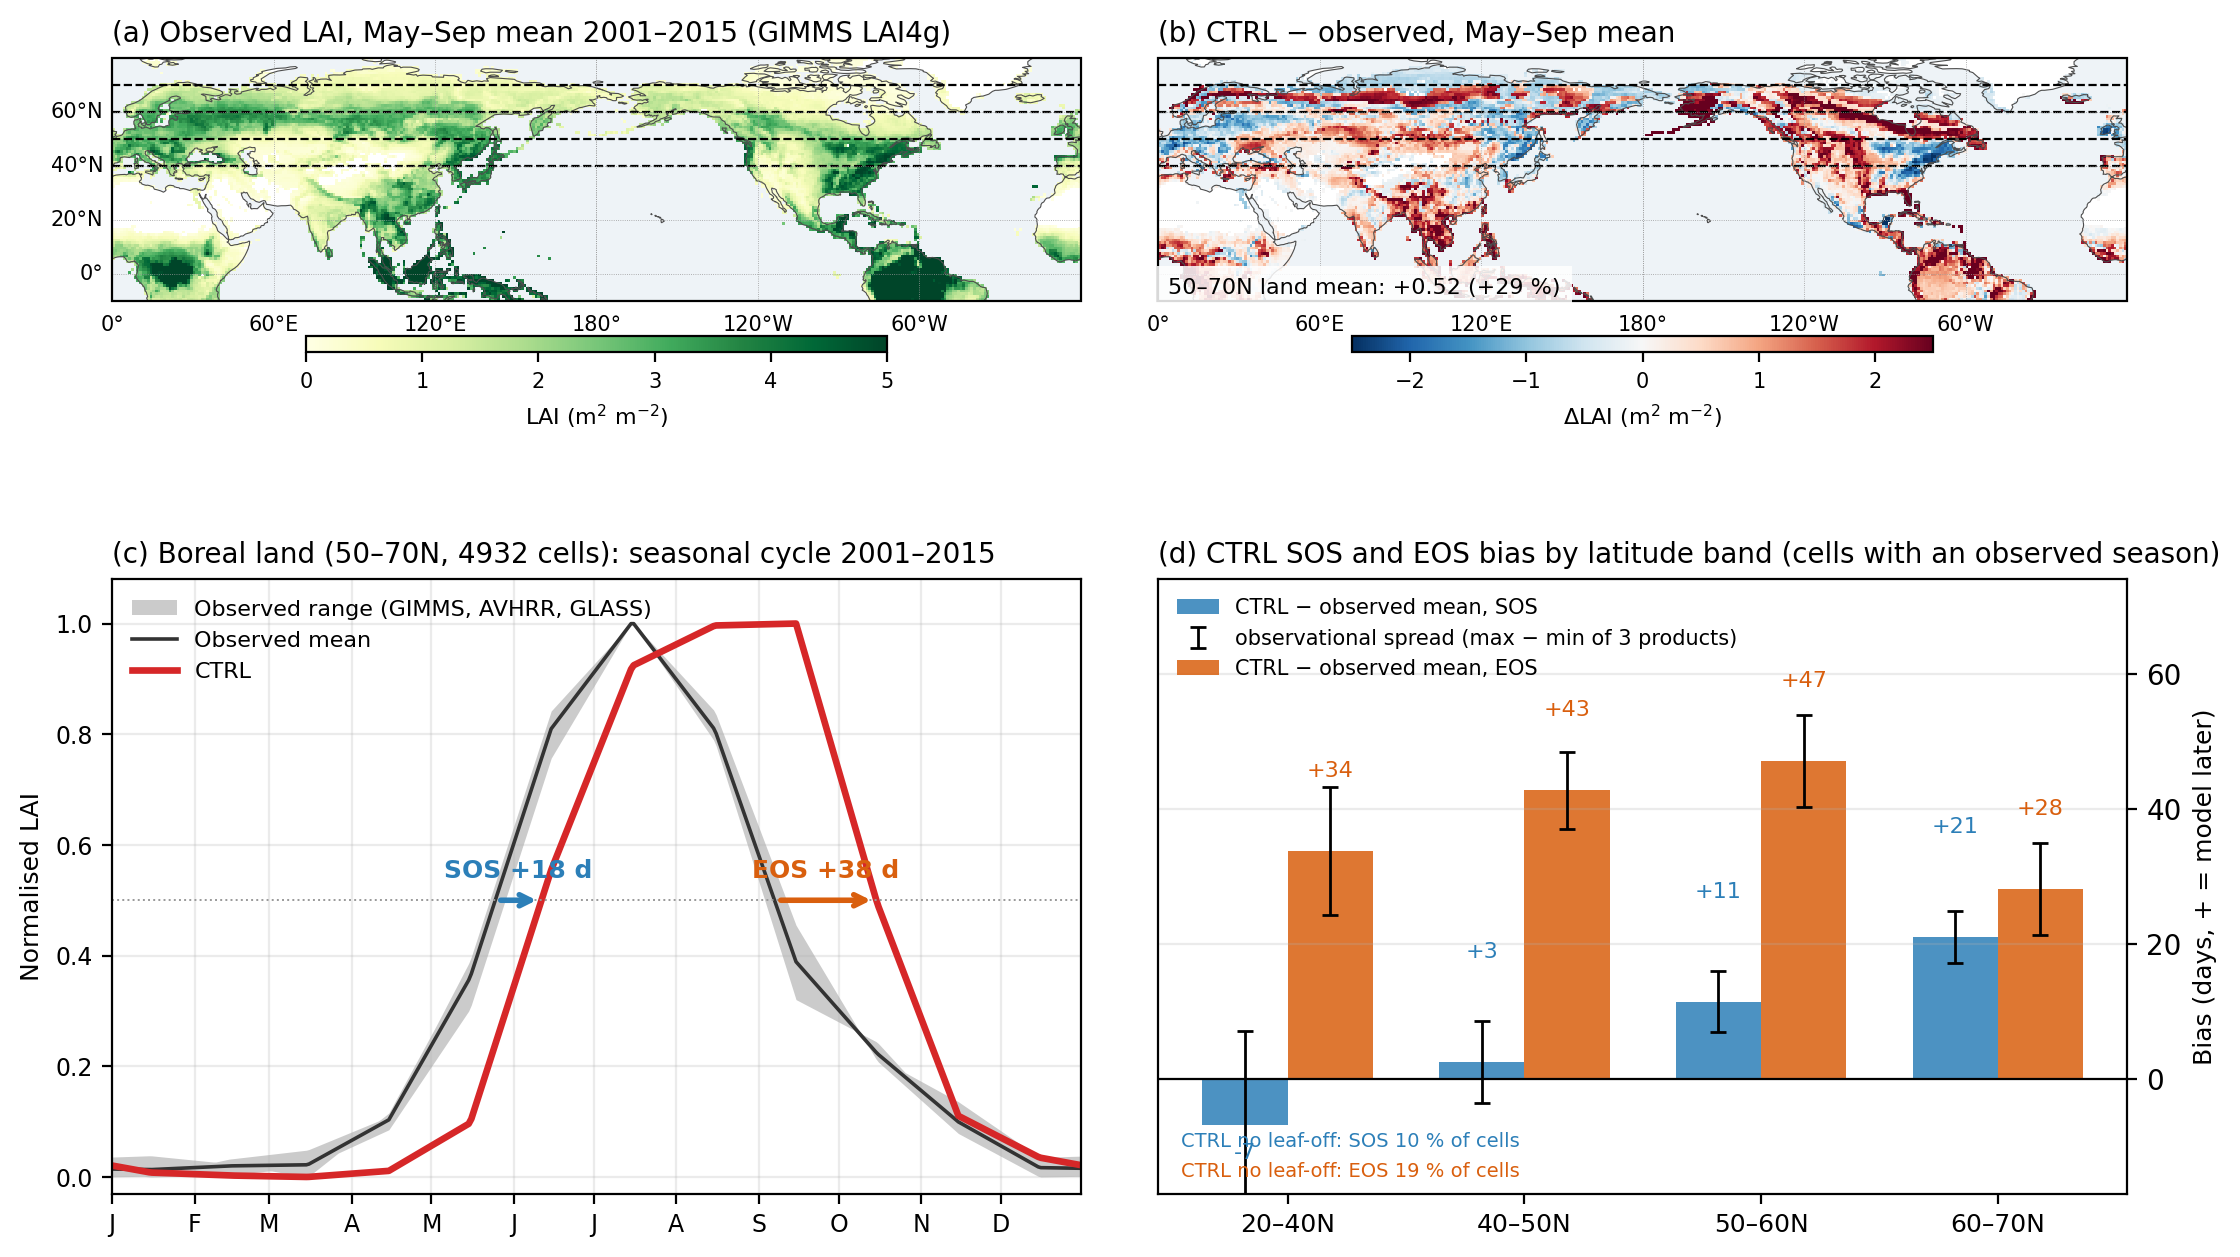
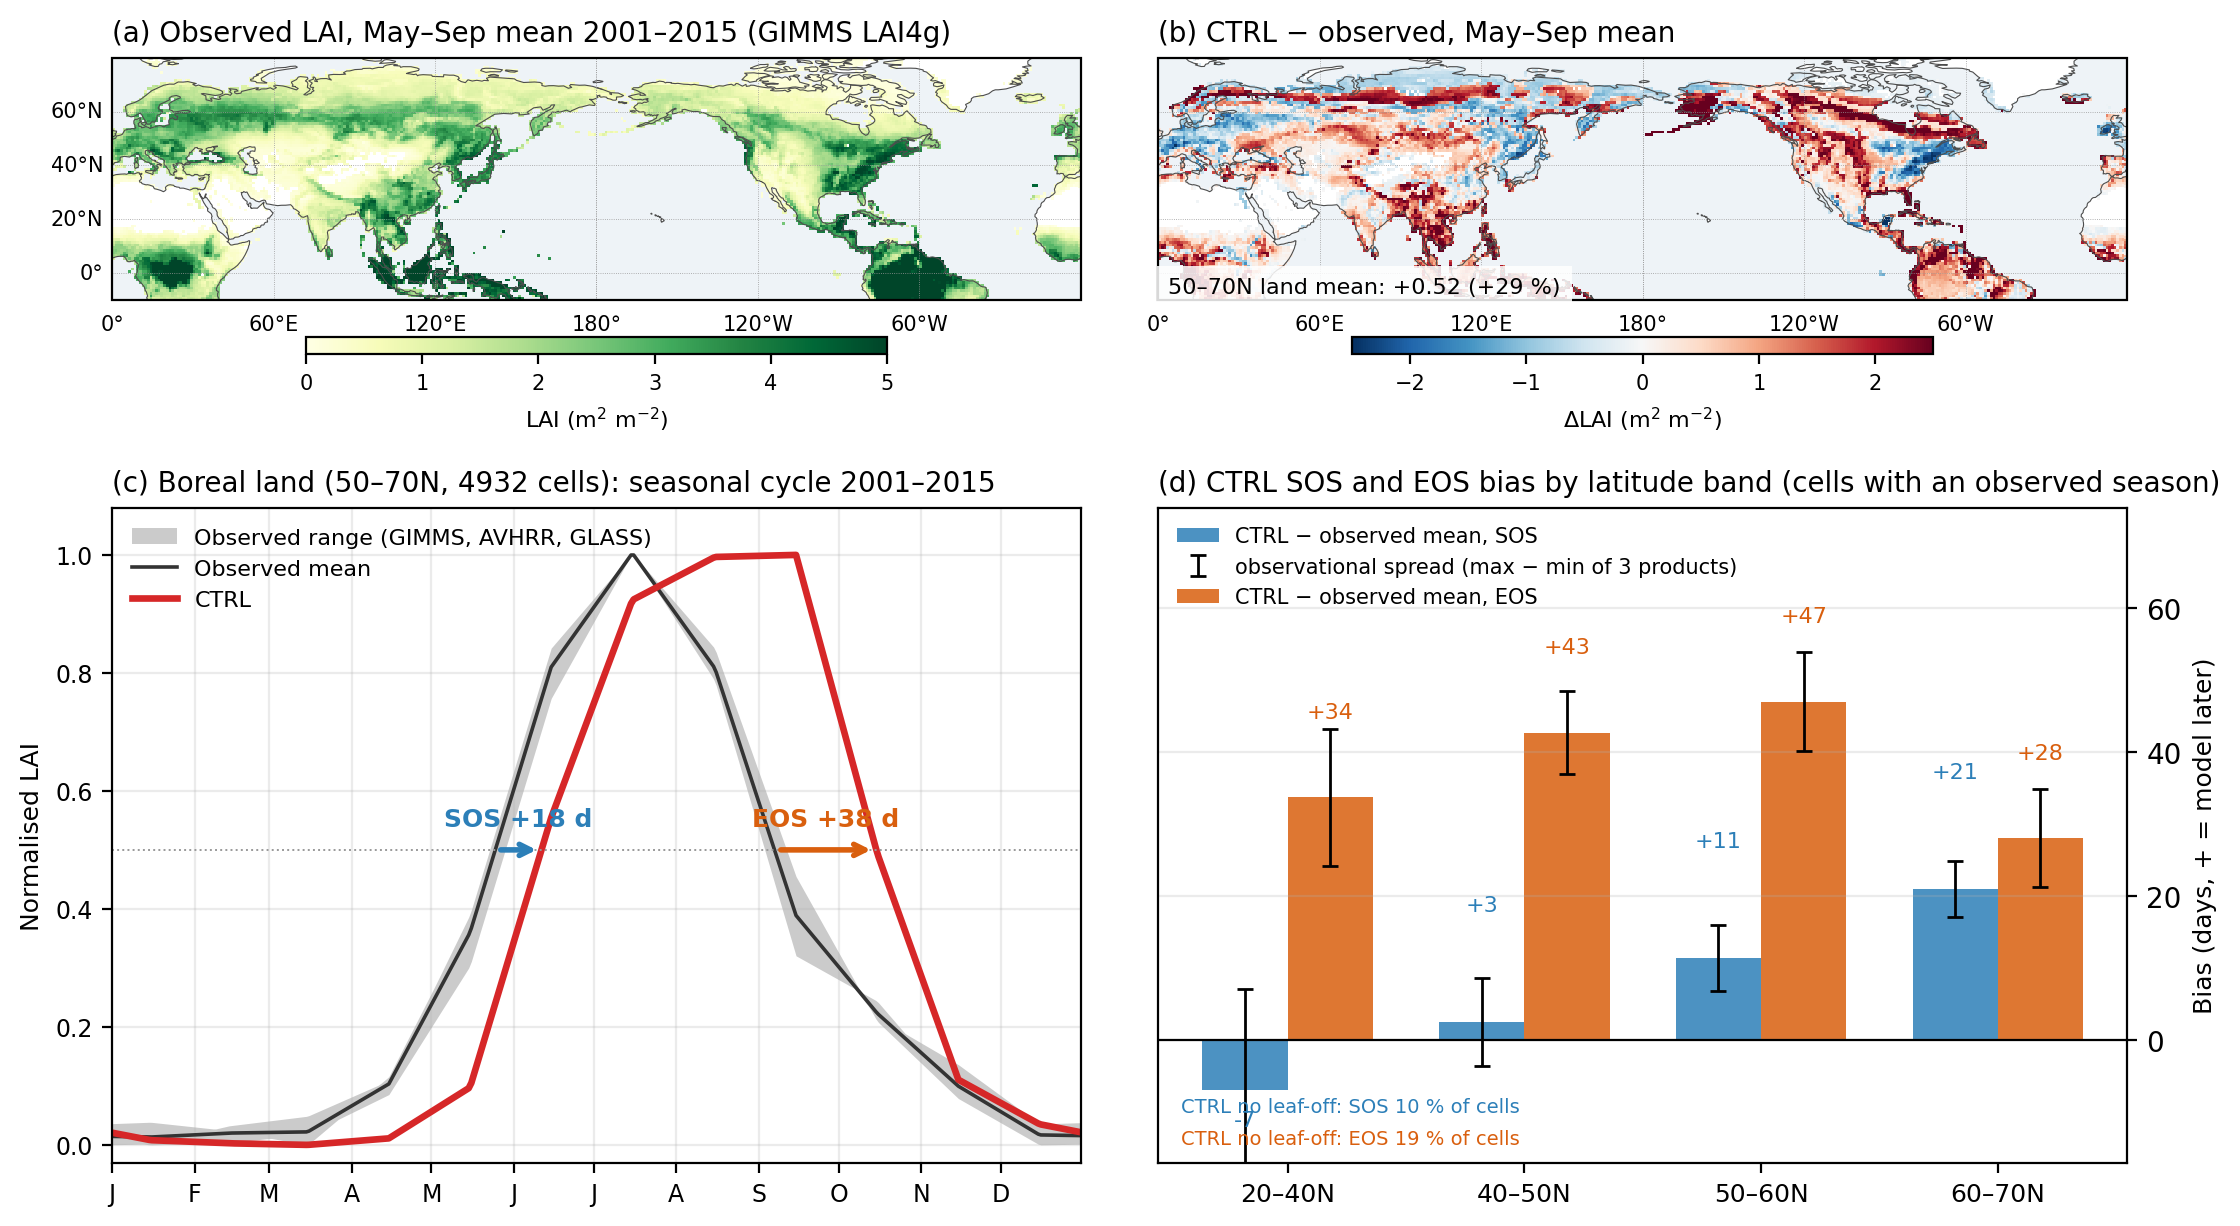
Add Fig. 3 rule-timing maps; Fig. 1 without band lines; daily-LAI decision for the 15-yr run

diff --git a/paper/2026_LM4p_phenology/scripts/f3_rule_timing_maps.py b/paper/2026_LM4p_phenology/scripts/f3_rule_timing_maps.py
@@ -1,0 +1,152 @@
+#!/usr/bin/env python3
+"""Fig. 3: why CTRL is late - the phenology rules reconstructed cell by cell from daily canopy temperature, 2010.
+
+Rules (vegn_dynamics.F90 vegn_phenology_ppa, larix/c3grass parameters: gdd_crit 180, tc_crit 5 C):
+  leaf-on  : GDD > 180  AND  tc_pheno >= 5 C  AND  soil not dry/frozen,  tc_pheno = 20-day EMA of canopy T
+  leaf-off : tc_pheno < 5 C  (CTRL);  patch adds: days shortening AND day length < 13 h AND tc_pheno < 20 C
+Daily input: dayl_d 2010 land_daily (vegn_temp_max/min, soil_liq/ice, lai); spring rules in dayl_d = CTRL.
+(a) spring delay produced by the 20-day smoothing: doy(tc_pheno >= 5 C) - doy(5-day mean T >= 5 C)
+(b) spring: the gate that opens last (binding): GDD / smoothed temperature / soil thaw (top 10 cm liquid fraction >= 0.3)
+(c) autumn: doy(day length < 13 h, shortening) - doy(tc_pheno < 5 C): how much earlier the photoperiod rule fires
+(d) autumn: doy(tc_pheno < 5 C) - observed EOS (GIMMS 2010, 50 % amplitude): lateness of the CTRL cold rule
+C96 land points binned to 1 deg (mean); cells 20-80N with LAI seasonal range > 0.3 in dayl_d.
+output: ../figures/f3_rule_timing_maps.png, ../data/f3_rule_timing_bands.txt
+"""
+import glob
+import numpy as np
+from netCDF4 import Dataset
+import matplotlib
+matplotlib.use("Agg")
+import matplotlib.pyplot as plt
+from matplotlib.colors import ListedColormap, BoundaryNorm
+import cartopy.crs as ccrs
+import cartopy.feature as cfeature
+
+RUN = "/Volumes/data02/LM4P/cases/phentest_2010/dayl_d/"
+OBS = "../../../poster/2026_LM4p_LAI/data/gimms_lai_mon_1982_2020.nc"
+V = ("lai", "vegn_temp_max", "vegn_temp_min", "soil_liq", "soil_ice")
+d = {k: [] for k in V}; lat = []; lon = []
+for f in sorted(glob.glob(RUN + "*.land_daily.tile*.nc")):
+    with Dataset(f) as A:
+        A.set_auto_mask(False)
+        la = A["geolat_t"][:].ravel(); lo = A["geolon_t"][:].ravel()
+        m = (la >= 20) & (la <= 80)
+        lat.append(la[m]); lon.append(lo[m])
+        for k in V:
+            x = A[k][:].astype("f8")
+            x = x.reshape(x.shape[0], -1, m.size) if x.ndim == 3 else x.reshape(x.shape[0], m.size)
+            d[k].append(x[..., m])
+lat = np.concatenate(lat); lon = np.concatenate(lon); lon = np.where(lon > 180, lon - 360, lon)
+d = {k: np.concatenate(v, axis=-1) for k, v in d.items()}
+nt = d["lai"].shape[0]
+ok = np.all((d["lai"] >= 0) & (d["lai"] < 1e10), 0) & np.all((d["vegn_temp_max"] > 100) & (d["vegn_temp_max"] < 400), 0) \
+     & np.all(np.abs(d["soil_liq"]) < 1e10, (0, 1)) & ((d["lai"].max(0) - d["lai"].min(0)) > 0.3)
+doy = np.arange(1, nt + 1)[:, None]
+
+
+def first(cond, start=60):
+    c = cond & (doy > start)
+    return np.where(c.any(0), np.argmax(c, 0) + 1.0, np.nan)
+
+
+Tx, Tn = d["vegn_temp_max"] - 273.15, d["vegn_temp_min"] - 273.15
+tm = (Tx + Tn) / 2
+gdd = np.cumsum((np.maximum(Tn, 0) + np.maximum(Tx, 0)) / 2, 0)
+tc = np.empty_like(tm); tc[0] = tm[:31].mean(0)
+for t in range(1, nt):
+    tc[t] = 0.95 * tc[t - 1] + 0.05 * tm[t]
+t5 = np.apply_along_axis(lambda a: np.convolve(a, np.ones(5) / 5, "same"), 0, tm)
+dz = np.array([0.02, 0.04, 0.04]); z = np.array([0.01, 0.04, 0.08]); wz = dz * np.exp(-z / 0.3); wz /= wz.sum()
+liq = d["soil_liq"] / 1000.0; tot = (d["soil_liq"] + d["soil_ice"]) / 1000.0
+theta = (np.minimum(liq / np.maximum(tot.max(0), 1e-3), 1.0) * wz[None, :, None]).sum(1)
+th = np.empty_like(theta); th[0] = theta[0]
+for t in range(1, nt):
+    th[t] = th[t - 1] + (theta[t] - th[t - 1]) / 31.0
+
+g_gdd = first(gdd > 180, 0); g_tc = first(tc >= 5); g_th = first(th >= 0.3); g_raw = first(t5 >= 5)
+binding = np.argmax(np.vstack([g_gdd, g_tc, g_th]), 0).astype(float)   # 0 GDD, 1 tc, 2 thaw
+rl = np.radians(lat)[None, :]
+decl = np.radians(23.44) * np.sin(2 * np.pi * (284 + doy) / 365)
+dayl = 24 / np.pi * np.arccos(np.clip(-np.tan(rl) * np.tan(decl), -1, 1))
+shorten = (rl * np.cos(2 * np.pi * (284 + doy) / 365)) < 0
+after = doy > 172
+cold = np.where((after & (tc < 5)).any(0), np.argmax(after & (tc < 5), 0) + 1.0, np.nan)
+dl13 = np.where((after & shorten & (dayl < 13) & (tc < 20)).any(0), np.argmax(after & shorten & (dayl < 13) & (tc < 20), 0) + 1.0, np.nan)
+
+# observed EOS 2010 per 1-deg cell (50 % amplitude, monthly interpolated), mapped to the C96 points
+MID = np.array([15.5, 45, 74.5, 105, 135.5, 166, 196.5, 227.5, 258, 288.5, 319, 349.5]); D = np.arange(1, 366.0)
+with Dataset(OBS) as A:
+    gv = [v for v in A.variables if A.variables[v].ndim == 3][0]
+    G = np.ma.filled(A[gv][(2010 - 1982) * 12:(2010 - 1982) * 12 + 12].astype("f8"), np.nan)
+G[np.abs(G) > 100] = np.nan
+eos_obs_1deg = np.full((180, 360), np.nan)
+for i, j in zip(*np.where(np.isfinite(G).all(0) & ((G.max(0) - G.min(0)) >= 0.5))):
+    mm = G[:, i, j]; c = np.interp(D, np.r_[MID[-1] - 365, MID, MID[0] + 365], np.r_[mm[-1], mm, mm[0]])
+    thr = c.min() + 0.5 * np.ptp(c); ip = int(c.argmax()); dn = [k for k in range(ip, 364) if c[k] >= thr > c[k + 1]]
+    if dn:
+        k = dn[0]; eos_obs_1deg[i, j] = D[k] + (c[k] - thr) / (c[k] - c[k + 1])
+ii = np.clip(((lat + 90) // 1).astype(int), 0, 179); jj = np.clip(((lon + 180) // 1).astype(int), 0, 359)
+eos_obs = eos_obs_1deg[ii, jj]
+
+fields = {"a": g_tc - g_raw, "b": binding, "c": dl13 - cold, "d": cold - eos_obs}
+# bin C96 points to 1 deg (mean; mode for the category field)
+def to1deg(v, mask, mode=False):
+    out = np.full((180, 360), np.nan)
+    if mode:
+        cnt = np.zeros((180, 360, 3))
+        for k in range(3):
+            np.add.at(cnt[:, :, k], (ii[mask & (v == k)], jj[mask & (v == k)]), 1)
+        has = cnt.sum(2) > 0; out[has] = cnt.argmax(2)[has]
+    else:
+        s = np.zeros((180, 360)); n = np.zeros((180, 360)); mk = mask & np.isfinite(v)
+        np.add.at(s, (ii[mk], jj[mk]), v[mk]); np.add.at(n, (ii[mk], jj[mk]), 1); out[n > 0] = s[n > 0] / n[n > 0]
+    return out
+
+
+maps = {k: to1deg(v, ok, mode=(k == "b")) for k, v in fields.items()}
+lat1 = -89.5 + np.arange(180); lon1 = -179.5 + np.arange(360)
+# fill 1-deg boxes that received no C96 point from the nearest point (within 1.5 deg), only where GIMMS has a season
+from scipy.spatial import cKDTree
+tree = cKDTree(np.c_[lat[ok], lon[ok]])
+gy, gx = np.meshgrid(lat1, lon1, indexing="ij")
+want = np.isfinite(eos_obs_1deg) & (gy >= 20)
+for k in maps:
+    hole = want & ~np.isfinite(maps[k])
+    dist, idx = tree.query(np.c_[gy[hole], gx[hole]])
+    vals = fields[k][ok][idx]
+    vals[dist > 1.5] = np.nan
+    maps[k][hole] = vals
+    maps[k][~want] = np.nan          # show only cells with an observed season (as Fig. 1d)
+
+out = ["Rule timing from dayl_d 2010 daily canopy temperature, C96 cells 20-80N with LAI range > 0.3; medians per latitude band",
+       "%-7s %6s | %8s %8s %8s | %6s %6s %6s | %8s %8s %8s" % ("band", "cells", "tc-raw5", "DL13-cold", "cold-obsEOS", "GDD%", "tc%", "thaw%", "raw5", "tc5", "cold")]
+for a, b in ((20, 40), (40, 50), (50, 60), (60, 70), (70, 80)):
+    m = ok & (lat >= a) & (lat < b)
+    if m.sum() < 20:
+        continue
+    out.append("%2d-%2dN %6d | %8.0f %8.0f %8.0f | %6.0f %6.0f %6.0f | %8.0f %8.0f %8.0f" % (
+        a, b, m.sum(), np.nanmedian(fields["a"][m]), np.nanmedian(fields["c"][m]), np.nanmedian(fields["d"][m]),
+        *[100 * np.mean(binding[m] == k) for k in range(3)], np.nanmedian(g_raw[m]), np.nanmedian(g_tc[m]), np.nanmedian(cold[m])))
+open("../data/f3_rule_timing_bands.txt", "w").write("\n".join(out) + "\n"); print("\n".join(out))
+
+proj = ccrs.PlateCarree(central_longitude=180)
+fig, axs = plt.subplots(2, 2, figsize=(13, 5.6), subplot_kw={"projection": proj}, gridspec_kw={"hspace": 0.02, "wspace": 0.06})
+spec = [("a", "(a) Spring: leaf-on delay from the 20-day temperature smoothing (days)", "YlOrRd", 0, 50, "days"),
+        ("b", "(b) Spring: the last gate to open (binding condition)", None, None, None, None),
+        ("c", "(c) Autumn: photoperiod rule (13 h) minus cold rule (5 °C) leaf-off date (days)", "RdBu", -90, 90, "days (negative = photoperiod earlier)"),
+        ("d", "(d) Autumn: CTRL cold-rule leaf-off minus observed EOS (days)", "RdBu_r", -60, 60, "days (positive = CTRL later)")]
+for ax, (k, title, cmap, lo, hi, lab) in zip(axs.ravel(), spec):
+    ax.set_extent([-180, 180, 20, 80], crs=proj)
+    ax.coastlines(lw=0.4, color="0.3"); ax.add_feature(cfeature.OCEAN, facecolor="#eef3f7", zorder=0)
+    if k == "b":
+        cm = ListedColormap(["#1b9e77", "#d95f02", "#7570b3"]); nm = BoundaryNorm([-0.5, 0.5, 1.5, 2.5], 3)
+        im = ax.pcolormesh(lon1, lat1, np.ma.masked_invalid(maps[k]), cmap=cm, norm=nm, transform=ccrs.PlateCarree(), shading="auto")
+        cb = fig.colorbar(im, ax=ax, orientation="horizontal", pad=0.08, shrink=0.55, aspect=30, ticks=[0, 1, 2])
+        cb.ax.set_xticklabels(["GDD > 180", "smoothed T ≥ 5 °C", "soil thaw"], fontsize=8)
+    else:
+        im = ax.pcolormesh(lon1, lat1, np.ma.masked_invalid(maps[k]), cmap=cmap, vmin=lo, vmax=hi, transform=ccrs.PlateCarree(), shading="auto")
+        cb = fig.colorbar(im, ax=ax, orientation="horizontal", pad=0.08, shrink=0.55, aspect=30); cb.set_label(lab, fontsize=8); cb.ax.tick_params(labelsize=7.5)
+    gl = ax.gridlines(draw_labels=True, lw=0.3, color="0.6", ls=":", xlocs=range(-180, 181, 60), ylocs=range(20, 81, 20))
+    gl.top_labels = False; gl.right_labels = False; gl.xlabel_style = {"size": 7.5}; gl.ylabel_style = {"size": 7.5}
+    ax.set_title(title, loc="left", fontsize=9)
+fig.savefig("../figures/f3_rule_timing_maps.png", dpi=200, bbox_inches="tight")

diff --git a/paper/2026_LM4p_phenology/scripts/f1_ctrl_bias_regions.py b/paper/2026_LM4p_phenology/scripts/f1_ctrl_bias_regions.py
@@ -136,7 +136,7 @@ for nm, a, b in BANDS + [("boreal", 50, 70)]:
 
 # ---- figure
 fig = plt.figure(figsize=(13, 8.8))
-gs = fig.add_gridspec(2, 2, height_ratios=(1, 1.05), hspace=0.26, wspace=0.08)
+gs = fig.add_gridspec(2, 2, height_ratios=(1, 1.05), hspace=0.12, wspace=0.08)
 proj = ccrs.PlateCarree(central_longitude=180)
 axa = fig.add_subplot(gs[0, 0], projection=proj); axb = fig.add_subplot(gs[0, 1], projection=proj)
 axc = fig.add_subplot(gs[1, 0]); axd = fig.add_subplot(gs[1, 1])
@@ -149,8 +149,6 @@ for ax, z, cmap, lo, hi, lab, title in ((axa, g, "YlGn", 0, 5, "LAI (m$^2$ m$^{-
     ax.set_extent([-180, 180, -10, 80], crs=proj)   # full width, Pacific-centred
     im = ax.pcolormesh(lon, lat, np.ma.masked_invalid(z), cmap=cmap, vmin=lo, vmax=hi, transform=ccrs.PlateCarree(), shading="auto")
     ax.coastlines(lw=0.4, color="0.3"); ax.add_feature(cfeature.OCEAN, facecolor="#eef3f7", zorder=0)
-    for yb in (40, 50, 60, 70):   # the bands of (d)
-        ax.plot([-180, 180], [yb, yb], color="k", lw=0.8, ls="--", transform=proj)
     gl = ax.gridlines(draw_labels=True, lw=0.3, color="0.6", ls=":", xlocs=range(-180, 181, 60), ylocs=range(0, 81, 20))
     gl.top_labels = False; gl.right_labels = False; gl.xlabel_style = {"size": 7.5}; gl.ylabel_style = {"size": 7.5}
     if ax is axb:

diff --git a/notes/findings.md b/notes/findings.md
@@ -77,3 +77,4 @@
 - **겨울 휴면 잠금(latch) 후보 오프라인 비교 (2026-10-19, `lm4/scripts/dl_dormancy_latch_offline.py` → `lm4/data/dl_dormancy_latch_offline_2010.txt`; dayl_d 2010 일별 기온, c3grass 규칙 상태기계, 가뭄 제외, 2회 반복 후 2회차)**: 겨울 재개엽 % (동지 후 60일 내 잎 켜기) / 동지 후 첫 잎 켜기 중앙 일수, 관측 GIMMS 2010 SOS(동지 후 일수). CUR(현 패치): 20–40N 59 % / 33일, 20–40S 87 % / 8일, 40–60S 38 % / 65일, 40–50N 7 %, 50–70N 0 %. **EQ12(일장 규칙·추위로 잎이 꺼지면 낮이 길어지고 일장 ≥12 h(춘분 이후)까지 잠금)**: 재개엽 20–40N 7 % · 20–40S 0 % · 40–60S 0 % · 40–50N 1 %, 첫 켜기 동지 후 91–92일(+8일 ≈ LAI 50 %) < 관측 SOS 127–147일 → 봄이 관측보다 늦어지지 않음. **50–70N은 모든 후보에서 불변(북방 결과 영향 없음).** EQ11·SOL30 불충분(재개엽 36–86 %), SOL60은 EQ12와 비슷하나 생리 근거 약함. ⇒ EQ12 채택 후보(봄 개엽에 낮 길이 증가 요구 = 온대 수종 광주기 요구와 같은 논리, 근거 문헌 확인 필요). 남은 문제: 아열대 봄은 EQ12로도 관측보다 30–45일 이름(CTRL부터의 아열대 조기 개엽).
 - **논문 그림 1 생성 (2026-10-19, `paper/2026_LM4p_phenology/scripts/f1_ctrl_bias_regions.py` → `figures/f1_ctrl_bias_regions.png`, `data/f1_sos_eos_bias.txt`)**: 2001–2015, 관측 3종(GIMMS·AVHRR·GLASS) 공통 셀, p24 방법. CTRL − 관측 3종 평균(일) / 관측 범위: SOS NEU +21.3/13.4 · RFE +21.0/4.2 · NWN +14.1/3.2 · ESB +8.6/4.4 · WSB +8.6/6.5 · NEN +27.7/3.7 · RAR +19.8/6.0; EOS NEU +40.3/27.1 · RFE +32.0/8.4 · NWN +34.1/5.4 · ESB +37.9/6.1 · WSB +49.1/8.6 · NEN +21.2/12.5 · RAR +27.4/3.4. 7지역 14개 중 관측 범위 안에 드는 편차 없음(NEU EOS는 범위 27일로 가장 근접). 정규화 곡선: 모델 정점이 관측(7월 중순)보다 1–2개월 늦고 상승·하강 모두 급함.
 - **그림 1 (d) 셀별 통계로 전환 (2026-10-19, `paper/2026_LM4p_phenology/scripts/f1_ctrl_bias_regions.py`)**: 띠 평균 곡선의 50 % 교차는 20–40N에서 CTRL EOS = doy 358(+71일)을 만듦 — 아열대 CTRL 곡선이 밋밋(min 1.59/max 2.26, 10월 정점, 12월 2.05)해 기준선 1.93을 연말에야 통과한 지표 붕괴. 셀별(관측 GIMMS 진폭≥0.5 셀, 15년 평균 곡선, cos-lat 가중): dSOS/dEOS(일)·관측 범위·CTRL 낙엽 없음 셀% — 20–40N −7/+34 (28/19) 10 %/19 % · 40–50N +3/+43 (12/12) 0/1 % · 50–60N +11/+47 (9/14) 0/0 % · 60–70N +21/+28 (8/14) 1/1 % · 50–70N +16/+39. 띠 평균 곡선값(북방 +18/+38)과 셀별값이 거의 같아 방법 의존 작음. 기준은 관측에만 적용(모델이 밋밋한 건 결함이므로 "낙엽 없음 %"로 보고). 최소 LAI 기준은 진폭≥0.5에 포함되어 별도 불필요.
+- **그림 3 규칙 시점 지도 (2026-10-19, `paper/2026_LM4p_phenology/scripts/f3_rule_timing_maps.py` → `figures/f3_rule_timing_maps.png`, `data/f3_rule_timing_bands.txt`; dayl_d 2010 일별 캐노피 기온 재구성, larix/c3grass 문턱, 1° 비닝 + 1.5° 내 최근접 채움, 관측 계절 있는 셀만)**: 위도대 중앙값 — 봄 평활 지연(tc5−raw5) 20–40N 0 · 40–50N 21 · 50–60N 24 · 60–70N 21일; 묶는 조건 = 평활기온 96–100 %(GDD 0 %, 해동 1–4 %); 가을 DL13−cold = 20–40N −5 · 40–50N −48 · 50–60N −37 · 60–70N −22일; cold−관측EOS = +4 · +34 · +30 · +26일. ⇒ 봄 지연의 본체는 40°N 이북 전역에서 20일 평활(약 3주), 가을은 기온 규칙이 관측보다 한 달 늦고 일장 규칙이 그 차이를 거의 메움(40–60N). 20–40N은 평활 지연 0(겨울에도 tc≥5)이고 cold 규칙이 거의 안 걸림(doy 289). 지도상 70N 툰드라 띠는 cold가 일장보다 먼저·관측보다 일찍(진파랑) — 툰드라 별도 거동.

diff --git a/notes/decisions.md b/notes/decisions.md
@@ -52,3 +52,4 @@
 - 모델 표기: 제목·초록은 공식 명칭 LM4.1(Shevliakova 2024), Methods에서 LM4p(KIOST-ESM2 오프라인 PPA 빌드)를 한 번 정의 후 실험명에 사용.
 - "Reducing": 가을은 대부분 해소(+33→+10일), 봄은 부분(1/3) → "Correcting" 대신. 15년 결과 후 재검토.
 - 작업 폴더 `paper/2026_LM4p_phenology/`(README에 실험명표·그림 대응표).
+- (2026-10-19 추가) 15년 개선 실험은 **일별 LAI 출력 포함**(diag_table에 `"vegn","lai","lai","land_daily"` — phentest `_d`와 동일). 생산런 CTRL·HistCO2의 land_daily에는 LAI가 없음(확인). 관측 비교는 월자료(관측이 월 통합판), 일별은 개선 실험의 시점 진단용. HistCO2 일별 재실행은 하지 않음.

diff --git a/paper/2026_LM4p_phenology/README.md b/paper/2026_LM4p_phenology/README.md
@@ -13,7 +13,7 @@ Verb "Reducing": autumn bias mostly removed, spring bias partly; revisit after t
 | DL | phentest dayl_d | + day length 13 h (acer 12 h), 20 C cap | same | - | 292 | 2010 |
 | DL+SP | phentest daylspring5_d | DL | 5-d tc_pheno_on | - | 292 | 2010 |
 | DL+SP+WH | phentest daylhold5_d | DL | 5-d | leaf-on blocked while dayl < 12 h and tc < 20 C | 292 | 2010 |
-| (planned) | 15-yr run from HistCO2 1996 state | final rules | | | historical | 1996-2015, analysis 2001-2015 |
+| (planned) | 15-yr run from HistCO2 1996 state, daily LAI on | final rules | | | historical | 1996-2015, analysis 2001-2015 |
 
 ## Observations
 GIMMS LAI4g consolidated, GIMMS AVHRR-only (to 2015), GLASS V61 MODIS (2001-), all monthly 1 deg
